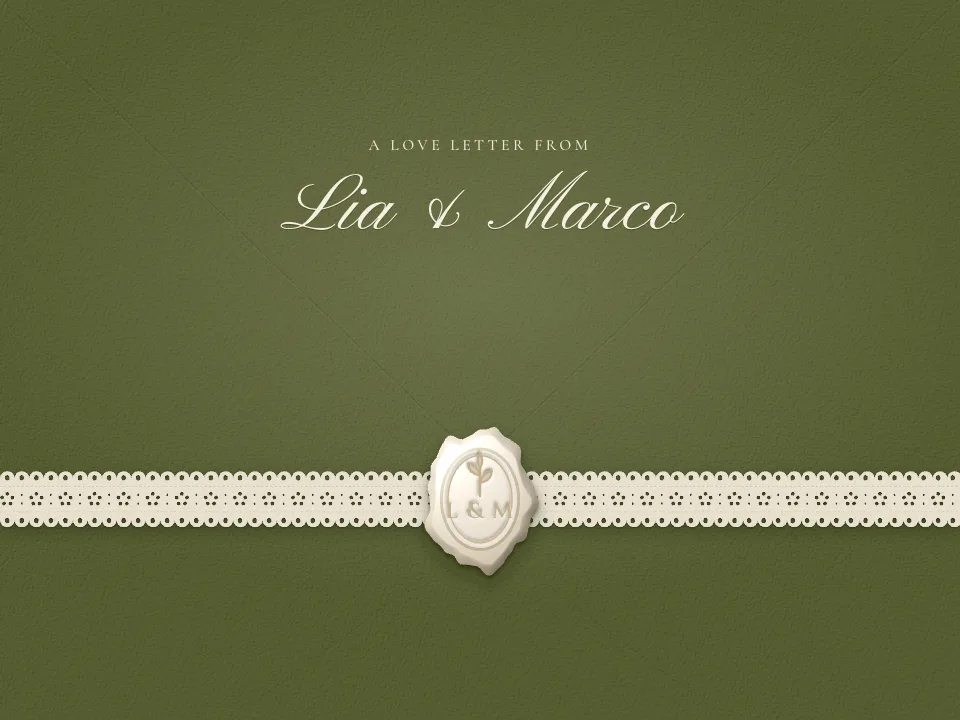
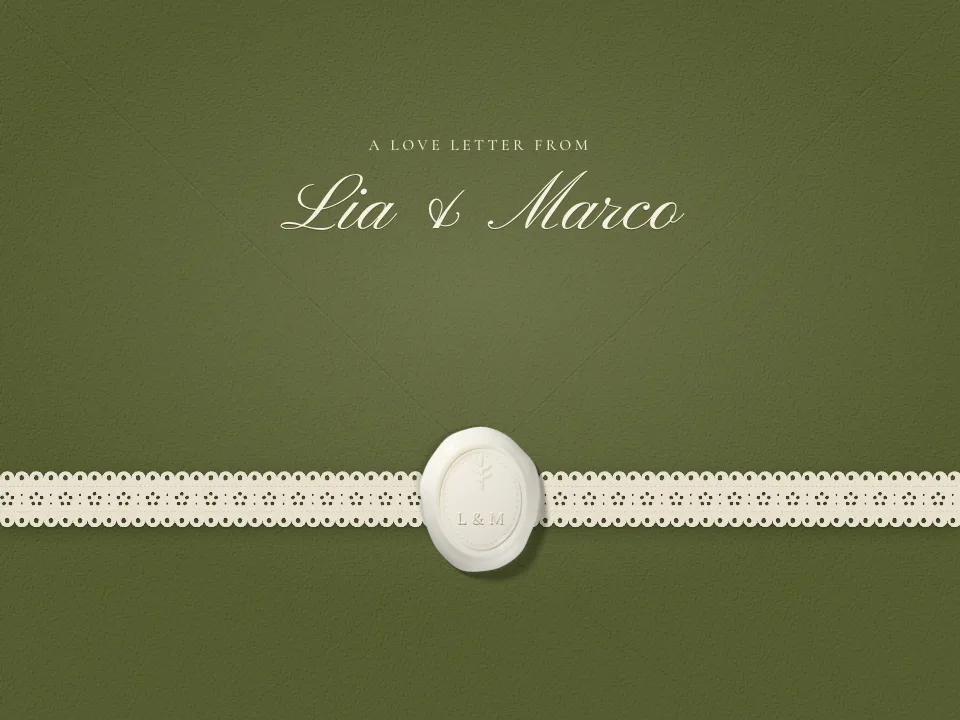
Love Letter: rendered stationery, photo crop that follows the host's adjust, names that always fit
- The envelope, name card, date card, oval mat and wax seal are now Cycles renders
  (public/event-templates/love-letter). The envelope and cards are grey shading maps
  tinted with the palette colour (mask + hard-light), so every palette still works; the
  mat and seal are ivory. Names, date and monogram stay live text.
- The oval photo is a real <img> under the mat, cropped by photoFit: the exact focal point
  and zoom apply, and the on-page Adjust/Replace tools now find it. Before, the SVG <image>
  snapped the focal point to thirds, ignored zoom, and got no tools.
- Name card: a square card with the names centred; long names shrink to fit instead of
  stretching the card under the pocket.
- Dark palettes get light paper with dark type; the date picks its ink by contrast.
- Renders preload while the intro is up; gallery card re-captured with the new seal.

Changed region(s): [[0.4375, 0.5806, 0.5938, 0.7944]]

diff --git a/src/pages/wedding-sites/templates/love-letter/art.tsx b/src/pages/wedding-sites/templates/love-letter/art.tsx
@@ -1,10 +1,16 @@
-import { useId, useRef } from "react";
-import { EnvelopeBack, PAPER_GRAIN, Pocket, WaxSeal, lacePath, useSize } from "../shared/stationery";
+import { useLayoutEffect, useRef, type ReactNode, type Ref } from "react";
+import { photoFit } from "../shared/photoFit";
+import type { ImageAsset } from "../../content/types";
 
-// Love Letter's own pieces (the shared paper, envelope, seal and lace ribbon
-// live in ../shared/stationery): the open envelope holding a photo in an oval
-// mat, a striped name card and a scalloped date card; a leaf sprig ornament;
-// and the countdown.
+// Love Letter's own pieces: the open envelope holding a photo in an oval mat, a
+// striped name card and a scalloped date card, the ivory wax seal; a leaf sprig
+// ornament; and the countdown.
+//
+// The paper pieces and the seal are Cycles renders (~/rsvp-teaser/loveletter:
+// ll_render.py → post.py → /public/event-templates/love-letter). The envelope and
+// cards render in neutral grey (flat paper = 50%) and are tinted here with the
+// palette colour (hard-light), so every palette still works; the mat and the seal
+// are always ivory, so they're full colour. Text (names, date, monogram) stays live.
 
 /** A small olive sprig, used between sections. */
 export function Sprig({ className = "" }: { className?: string }) {
@@ -19,86 +25,119 @@ export function Sprig({ className = "" }: { className?: string }) {
   );
 }
 
-/** A scalloped card (the red date card): the shared lace edge, without holes, with paper grain. */
-function ScallopCard({ text, className = "" }: { text: string; className?: string }) {
+export const ART = "/event-templates/love-letter/";
+/** Every rendered file, seal first (the intro shows it); preloaded while the intro is up. */
+export const ART_FILES = ["seal_sprig", "pocket", "back", "namecard", "datecard", "mat", "seal_plain"].map((f) => `${ART}${f}.webp`);
+
+/**
+ * Keeps the names inside the square card: if they overflow (long names wrap onto more lines,
+ * or one long word is wider than the card), shrink the type (--fit, 0.4–1) until they fit.
+ */
+function useFitText(deps: unknown[]) {
   const ref = useRef<HTMLDivElement>(null);
-  const { w, h } = useSize(ref);
-  const id = useId().replace(/:/g, "");
-  const edge = w && h ? lacePath(w, h, Math.max(5, h * 0.09)).edge : "";
+  useLayoutEffect(() => {
+    const el = ref.current;
+    if (!el) return;
+    // names are centred (their boxes shrink to the text), so measure them against the card's
+    // inner width, not their own box
+    const fits = () => {
+      const cs = getComputedStyle(el);
+      const room = el.clientWidth - parseFloat(cs.paddingLeft) - parseFloat(cs.paddingRight);
+      return (
+        el.scrollHeight <= el.clientHeight + 1 &&
+        [...el.querySelectorAll<HTMLElement>(".ll-namecard__name")].every((n) => n.scrollWidth <= room + 1)
+      );
+    };
+    const run = () => {
+      el.style.setProperty("--fit", "1");
+      if (fits()) return;
+      let lo = 0.4, hi = 1;
+      for (let i = 0; i < 8; i++) {
+        const mid = (lo + hi) / 2;
+        el.style.setProperty("--fit", String(mid));
+        if (fits()) lo = mid;
+        else hi = mid;
+      }
+      el.style.setProperty("--fit", String(lo));
+    };
+    run();
+    // the script face may arrive after the first layout; type in cqw scales with the card, so
+    // only content and font changes need a re-fit
+    let live = true;
+    document.fonts?.ready.then(() => live && run());
+    return () => {
+      live = false;
+    };
+    // eslint-disable-next-line react-hooks/exhaustive-deps
+  }, deps);
+  return ref;
+}
+
+/**
+ * A rendered paper piece in the palette's colour: the render's alpha cuts the shape, its grey
+ * shading (paper grain, bevelled edges, shadows) lights whatever is drawn inside it.
+ */
+function Lit({ map, className = "", children, boxRef }: { map: string; className?: string; children?: ReactNode; boxRef?: Ref<HTMLDivElement> }) {
+  const url = `url("${ART}${map}.webp")`;
   return (
-    <div ref={ref} className={`ll-datecard ${className}`}>
-      {edge ? (
-        <svg className="ll-datecard__sheet" width={w} height={h} viewBox={`0 0 ${w} ${h}`} aria-hidden>
-          <defs>
-            <pattern id={`${id}-g`} width="280" height="280" patternUnits="userSpaceOnUse">
-              <image href={PAPER_GRAIN} width="280" height="280" />
-            </pattern>
-            <radialGradient id={`${id}-l`} cx="30%" cy="25%" r="80%">
-              <stop offset="0" stopColor="#fff" stopOpacity=".18" />
-              <stop offset="1" stopColor="#000" stopOpacity=".15" />
-            </radialGradient>
-          </defs>
-          <path d={edge} fill="var(--ll-accent)" />
-          <path d={edge} fill={`url(#${id}-g)`} style={{ mixBlendMode: "multiply" }} opacity=".7" />
-          <path d={edge} fill={`url(#${id}-l)`} />
-        </svg>
-      ) : null}
-      <span className="ll-datecard__text">{text}</span>
+    <div ref={boxRef} className={`ll-lit ${className}`} style={{ WebkitMaskImage: url, maskImage: url }}>
+      {children}
+      <img className="ll-lit__map" src={`${ART}${map}.webp`} alt="" aria-hidden draggable={false} />
     </div>
   );
 }
 
-/** The photo in an oval mat (or the monogram, when there's no photo). */
-function OvalMat({ photo, mono, focal }: { photo?: string; mono: string; focal?: { x: number; y: number } }) {
-  const id = useId().replace(/:/g, "");
+/** The ivory wax seal (rendered), with the couple's monogram pressed into its open field. */
+export function LLSeal({ text, sprig = false, className = "" }: { text: string; sprig?: boolean; className?: string }) {
+  const n = text.replace(/\s+/g, "").length;
   return (
-    <svg className="ll-oval" viewBox="0 0 140 180" aria-hidden>
-      <defs>
-        <clipPath id={`${id}-c`}>
-          <ellipse cx="70" cy="90" rx="50" ry="68" />
-        </clipPath>
-        <pattern id={`${id}-g`} width="280" height="280" patternUnits="userSpaceOnUse">
-          <image href={PAPER_GRAIN} width="280" height="280" />
-        </pattern>
-        <filter id={`${id}-sh`} x="-20%" y="-20%" width="140%" height="140%">
-          <feDropShadow dx="0" dy="2" stdDeviation="1.5" floodColor="#1d2410" floodOpacity=".45" />
-          <feDropShadow dx="0" dy="10" stdDeviation="9" floodColor="#1d2410" floodOpacity=".3" />
-        </filter>
-      </defs>
-      <g filter={`url(#${id}-sh)`}>
-        <ellipse cx="70" cy="90" rx="68" ry="88" fill="var(--st-paper)" />
-        <ellipse cx="70" cy="90" rx="68" ry="88" fill={`url(#${id}-g)`} style={{ mixBlendMode: "multiply" }} opacity=".8" />
-      </g>
-      <ellipse cx="70" cy="90" rx="60" ry="79" fill="none" stroke="#b9a678" strokeWidth="1" />
-      <ellipse cx="70" cy="90" rx="56.5" ry="75" fill="none" stroke="#b9a678" strokeOpacity=".6" strokeWidth=".6" />
+    <span className={`ll-seal${sprig ? " ll-seal--sprig" : ""} ${className}`} aria-hidden>
+      <img src={`${ART}seal_${sprig ? "sprig" : "plain"}.webp`} alt="" draggable={false} />
+      {text ? (
+        <span className="ll-seal__mono" style={{ fontSize: `${(n <= 2 ? 19 : n <= 3 ? 16 : n <= 4 ? 13 : 10) * (sprig ? 0.74 : 1)}cqw` }}>
+          {text}
+        </span>
+      ) : null}
+    </span>
+  );
+}
+
+/**
+ * The photo in a bevelled oval mat (or the monogram, when there's no photo). The photo is a real
+ * <img> under the mat (not an SVG <image>): it crops at the host's exact focal point and zoom via
+ * photoFit, and the builder's on-page Adjust/Replace tools, which look for <img>, can find it.
+ */
+function OvalMat({ photo, mono }: { photo?: Pick<ImageAsset, "masterUrl" | "focalPoint" | "zoom" | "alt">; mono: string }) {
+  return (
+    <div className="ll-oval">
       {photo ? (
-        <image href={photo} x="20" y="22" width="100" height="136" preserveAspectRatio={`x${focal && focal.x < 0.34 ? "Min" : focal && focal.x > 0.66 ? "Max" : "Mid"}Y${focal && focal.y < 0.34 ? "Min" : focal && focal.y > 0.66 ? "Max" : "Mid"} slice`} clipPath={`url(#${id}-c)`} />
+        <div className="ll-oval__photo">
+          <img src={photo.masterUrl} alt={photo.alt ?? ""} draggable={false} style={photoFit(photo)} />
+        </div>
       ) : (
-        <>
-          <ellipse cx="70" cy="90" rx="50" ry="68" fill="var(--ll-olive)" />
-          <text x="70" y={mono.length > 3 ? 97 : 100} textAnchor="middle" fontFamily="var(--ll-script)" fontSize={mono.length > 3 ? 25 : 36} fill="var(--st-paper)">
-            {mono}
-          </text>
-        </>
+        <div className="ll-oval__photo ll-oval__photo--mono">
+          <span style={{ fontSize: mono.length > 3 ? "17cqw" : "25cqw" }}>{mono}</span>
+        </div>
       )}
-      <ellipse cx="70" cy="90" rx="50" ry="68" fill="none" stroke="#000" strokeOpacity=".18" strokeWidth="1.2" />
-    </svg>
+      <img className="ll-oval__mat" src={`${ART}mat.webp`} alt="" aria-hidden draggable={false} />
+    </div>
   );
 }
 
 /**
  * The open envelope with the invitation pieces tucked inside: the photo in its
  * oval mat (left), the striped name card (back right), the scalloped date card
- * (front), and the pocket with a small ivory seal.
+ * (front left), the pocket, and the wax seal on the pocket's point.
  */
-export function EnvelopeStack({ names, date, mono, photo, focal, editorHint }: { names: string[]; date: string | null; mono: string; photo?: string; focal?: { x: number; y: number }; editorHint?: boolean }) {
+export function EnvelopeStack({ names, date, mono, photo, editorHint }: { names: string[]; date: string | null; mono: string; photo?: ImageAsset; editorHint?: boolean }) {
+  const cardRef = useFitText([names.join("|"), editorHint]);
   return (
     <div className="ll-stack" aria-label={names.join(" & ")}>
       <div className="ll-stack__env ll-stack__env--back">
-        <EnvelopeBack />
+        <Lit map="back" className="ll-env" />
       </div>
       <div className="ll-stack__namecard">
-        <div className="ll-namecard">
+        <Lit map="namecard" className="ll-namecard" boxRef={cardRef}>
           <p className="ll-namecard__kicker">Save the date</p>
           {names.length ? (
             names.map((n, i) => (
@@ -110,21 +149,23 @@ export function EnvelopeStack({ names, date, mono, photo, focal, editorHint }: {
           ) : (
             <span className="ll-namecard__name ll-hint">{editorHint ? "Your names" : ""}</span>
           )}
-        </div>
+        </Lit>
       </div>
       <div className="ll-stack__oval">
-        <OvalMat photo={photo} mono={mono} focal={focal} />
+        <OvalMat photo={photo} mono={mono} />
       </div>
       {date ? (
         <div className="ll-stack__date">
-          <ScallopCard text={date} />
+          <Lit map="datecard" className="ll-datecard">
+            <span className="ll-datecard__text">{date}</span>
+          </Lit>
         </div>
       ) : null}
       <div className="ll-stack__env ll-stack__env--front">
-        <Pocket />
+        <Lit map="pocket" className="ll-env" />
       </div>
       <div className="ll-stack__seal">
-        <WaxSeal text={mono} tone="ivory" shape="oval" />
+        <LLSeal text={mono} />
       </div>
     </div>
   );

diff --git a/src/pages/wedding-sites/templates/love-letter/styles.ts b/src/pages/wedding-sites/templates/love-letter/styles.ts
@@ -48,23 +48,37 @@ export const LOVE_LETTER_CSS = `
 /* the open envelope with the pieces tucked in */
 .ll-stack{position:relative;width:min(100%,470px);aspect-ratio:1/.96;container-type:inline-size;}
 .ll-stack__env{position:absolute;left:4%;right:4%;bottom:2%;height:50%;}
-.ll-stack__env--back{z-index:1;}
-.ll-stack__env--front{z-index:5;}
-.ll-stack__namecard{position:absolute;right:6%;top:3%;width:52%;z-index:2;transform:rotate(3deg);}
-.ll-namecard{position:relative;padding:5cqw 4cqw 14cqw;text-align:center;color:var(--ll-olive);
-  border:2.4cqw solid transparent;background:linear-gradient(var(--st-paper),var(--st-paper)) padding-box,repeating-linear-gradient(90deg,var(--ll-olive) 0 .9cqw,var(--st-paper) .9cqw 1.8cqw) border-box;
-  box-shadow:0 1px 1px rgba(30,35,15,.4),0 12px 22px -8px rgba(30,35,15,.4);}
-.ll-namecard::after{content:"";position:absolute;inset:0;background-image:var(--grain);background-size:280px;mix-blend-mode:multiply;opacity:.6;pointer-events:none;}
-.ll-namecard__kicker{margin:0 0 2.4cqw;font-size:2.4cqw;letter-spacing:.24em;text-transform:uppercase;}
-.ll-namecard__name{display:block;font-family:var(--ll-script);font-size:6.6cqw;line-height:1.15;}
-.ll-namecard__amp{display:block;font-family:var(--ll-script);font-size:5cqw;line-height:1;opacity:.85;}
-.ll-stack__oval{position:absolute;left:7%;top:3%;width:33%;z-index:3;transform:rotate(-7deg);}
-.ll-oval{display:block;width:100%;height:auto;overflow:visible;}
-.ll-stack__date{position:absolute;left:2%;top:41%;width:38%;aspect-ratio:2.3/1;z-index:6;transform:rotate(-6deg);}
-.ll-datecard{position:relative;width:100%;height:100%;display:grid;place-items:center;}
-.ll-datecard__sheet{position:absolute;inset:0;overflow:visible;filter:drop-shadow(0 1px 1px rgba(40,10,10,.45)) drop-shadow(0 8px 12px rgba(40,10,10,.3));}
-.ll-datecard__text{position:relative;font-family:var(--ll-serif);font-size:6.2cqw;letter-spacing:.06em;color:#f7ecdc;text-shadow:0 1px 0 rgba(0,0,0,.25);}
+.ll-stack__env--back{z-index:1;filter:drop-shadow(0 2px 2px rgba(10,0,4,.45)) drop-shadow(0 22px 30px rgba(10,0,4,.4));}
+.ll-stack__env--front{z-index:5;filter:drop-shadow(0 -1px 1.5px rgba(30,20,10,.3)) drop-shadow(0 -6px 12px rgba(30,20,10,.22));}
+/* a rendered piece: its alpha is the shape, its grey shading lights the palette colour (see art.tsx) */
+.ll-lit{position:relative;isolation:isolate;-webkit-mask-size:100% 100%;mask-size:100% 100%;-webkit-mask-repeat:no-repeat;mask-repeat:no-repeat;}
+.ll-lit__map{position:absolute;inset:0;width:100%;height:100%;mix-blend-mode:hard-light;pointer-events:none;user-select:none;-webkit-user-drag:none;}
+.ll-env{position:absolute;inset:0;background:var(--st-env);}
+.ll-stack__namecard{position:absolute;right:6%;top:3%;width:52%;z-index:2;transform:rotate(3deg);filter:drop-shadow(0 1px 1px rgba(30,35,15,.35)) drop-shadow(0 10px 14px rgba(30,35,15,.28));}
+.ll-namecard{aspect-ratio:1;overflow:hidden;display:flex;flex-direction:column;align-items:center;justify-content:center;padding:4cqw;text-align:center;color:var(--ll-card-ink);
+  border:2.4cqw solid transparent;background:linear-gradient(var(--st-paper),var(--st-paper)) padding-box,repeating-linear-gradient(90deg,var(--ll-card-ink) 0 .9cqw,var(--st-paper) .9cqw 1.8cqw) border-box;}
+/* the shading covers the striped border too (the mask is the border box; inset:0 would be the padding box) */
+.ll-namecard>.ll-lit__map{inset:-2.4cqw;width:auto;height:auto;}
+.ll-namecard__kicker{flex:none;margin:0 0 calc(2.4cqw * var(--fit,1));font-size:2.4cqw;letter-spacing:.24em;text-indent:.24em;text-transform:uppercase;}
+.ll-namecard__name{display:block;font-family:var(--ll-script);font-size:calc(6.6cqw * var(--fit,1));line-height:1.15;text-wrap:balance;}
+.ll-namecard__amp{display:block;font-family:var(--ll-script);font-size:calc(5cqw * var(--fit,1));line-height:1;opacity:.85;}
+.ll-stack__oval{position:absolute;left:7%;top:3%;width:33%;z-index:3;transform:rotate(-7deg);filter:drop-shadow(0 1.5px 1.5px rgba(29,36,16,.4)) drop-shadow(0 10px 14px rgba(29,36,16,.28));}
+.ll-oval{position:relative;width:100%;aspect-ratio:140/180;container-type:inline-size;}
+/* the photo sits under the mat: the bevelled window overlaps its edge */
+.ll-oval__photo{position:absolute;left:12.8%;top:11%;width:74.4%;height:78%;border-radius:50%;overflow:hidden;background:var(--ll-card-ink);}
+.ll-oval__photo img{display:block;width:100%;height:100%;object-fit:cover;}
+.ll-oval__photo--mono{display:grid;place-items:center;font-family:var(--ll-script);color:var(--st-paper);}
+.ll-oval__mat{position:absolute;inset:0;width:100%;height:100%;pointer-events:none;user-select:none;-webkit-user-drag:none;}
+.ll-stack__date{position:absolute;left:2%;top:41%;width:38%;aspect-ratio:2.3/1;z-index:6;transform:rotate(-6deg);filter:drop-shadow(0 1px 1px rgba(40,10,10,.4)) drop-shadow(0 8px 12px rgba(40,10,10,.28));}
+.ll-datecard{width:100%;height:100%;display:grid;place-items:center;background:var(--ll-accent);}
+.ll-datecard__text{position:relative;font-family:var(--ll-serif);font-size:6.2cqw;letter-spacing:.06em;color:var(--ll-date-ink,#f7ecdc);text-shadow:0 1px 0 var(--ll-date-shadow,rgba(0,0,0,.25));}
 .ll-stack__seal{position:absolute;left:50%;top:75.8%;width:12%;z-index:6;transform:translate(-50%,-50%);}
+/* the rendered wax seal; the monogram is raised in the wax, lit from the upper left like the render */
+.ll-seal{position:relative;display:block;width:100%;aspect-ratio:100/120;container-type:inline-size;}
+.ll-seal img{display:block;width:100%;height:100%;pointer-events:none;user-select:none;-webkit-user-drag:none;}
+.ll-seal__mono{position:absolute;left:50.5%;top:50.6%;transform:translate(-50%,-50%);white-space:nowrap;font-family:var(--ll-serif);font-weight:600;letter-spacing:.04em;line-height:1;
+  color:#ddd2bb;text-shadow:-.025em -.03em 0 rgba(255,253,246,.95),.03em .045em .03em rgba(95,75,45,.55),0 0 .02em rgba(95,75,45,.3);}
+.ll-seal--sprig .ll-seal__mono{top:61.5%;}
 
 .ll-where{position:relative;z-index:1;padding:26px 20px 10px;text-align:center;}
 .ll-where__place{margin:8px 0 12px;font-size:clamp(40px,9cqw,64px);color:var(--ll-olive);}

diff --git a/src/pages/wedding-sites/templates/love-letter/LoveLetterTemplate.tsx b/src/pages/wedding-sites/templates/love-letter/LoveLetterTemplate.tsx
@@ -8,8 +8,9 @@ import { customValue } from "../../content/custom";
 import VenueLinks from "../shared/VenueLinks";
 import { CashGifts, hasCashGifts } from "../shared/CashGifts";
 import EntourageBlock, { entourageTitle } from "../shared/Entourage";
-import { FELT, LaceRibbon, PAPER_GRAIN, STATIONERY_CSS, WaxSeal } from "../shared/stationery";
-import { EnvelopeStack, Sprig } from "./art";
+import { FELT, LaceRibbon, PAPER_GRAIN, STATIONERY_CSS } from "../shared/stationery";
+import { ART_FILES, EnvelopeStack, LLSeal, Sprig } from "./art";
+import { preload } from "react-dom";
 import { Countdown } from "../shared/Countdown";
 import { coupleNames, eventIsOver, fullNames, longDate, monogram, placeLine, dotDate, timeOf, timeWords } from "./content";
 import RsvpCard from "./RsvpCard";
@@ -33,6 +34,18 @@ import { LOVE_LETTER_CSS } from "./styles";
  */
 
 const OPEN_MS = 1500;
+
+/** Relative luminance (0–1) of a #rgb / #rrggbb colour; anything else counts as mid (0.5). */
+function luminance(c: string): number {
+  const m = /^#([0-9a-f]{3}|[0-9a-f]{6})$/i.exec(c.trim());
+  if (!m) return 0.5;
+  const h = m[1].length === 3 ? [...m[1]].map((x) => x + x).join("") : m[1];
+  const [r, g, b] = [0, 2, 4].map((i) => {
+    const v = parseInt(h.slice(i, i + 2), 16) / 255;
+    return v <= 0.04045 ? v / 12.92 : ((v + 0.055) / 1.055) ** 2.4;
+  });
+  return 0.2126 * r + 0.7152 * g + 0.0722 * b;
+}
 const INSIDE_HASHES = ["#details", "#rsvp"];
 
 function useReveal(on: boolean) {
@@ -75,6 +88,8 @@ export default function LoveLetterTemplate({ content, settings, editorPreview = 
   const live = published || demo;
   const credit = useSiteCredit();
   const theme = resolveEventTheme(settings);
+  // the rendered stationery: fetch it while the intro is up, so nothing pops in when it opens
+  for (const href of ART_FILES) preload(href, { as: "image", fetchPriority: href.endsWith("seal_sprig.webp") ? "high" : "low" });
   const reduced = usePrefersReducedMotion();
   const motion = !reduced;
   const reveal = live && motion;
@@ -136,7 +151,7 @@ export default function LoveLetterTemplate({ content, settings, editorPreview = 
   const venue = content.primaryLocation.name?.trim() ?? "";
   const photos = content.galleries[0]?.items ?? [];
   const cover = settings.heroImage?.masterUrl || photos[0]?.image.masterUrl;
-  const coverFocal = settings.heroImage?.masterUrl ? settings.heroImage.focalPoint : photos[0]?.image.focalPoint;
+  const coverImage = settings.heroImage?.masterUrl ? settings.heroImage : photos[0]?.image;
   const band = photos[1]?.image.masterUrl || cover;
   const paragraphs = (content.story ?? "").split(/\n{2,}/).map((p) => p.trim()).filter(Boolean);
   const schedule = [...content.schedule].sort((a, b) => a.startTime.localeCompare(b.startTime));
@@ -150,13 +165,22 @@ export default function LoveLetterTemplate({ content, settings, editorPreview = 
   const over = !editorPreview && eventIsOver(content.eventDate);
   const vis = settings.sectionVisibility;
 
+  // Dark palettes swap roles (a dark page, light "ink"): the stationery stays light paper with dark
+  // type, so the card's paper and ink come from whichever of the two is light / dark.
+  const bgDark = luminance(theme.background) < 0.3;
+  const darker = luminance(theme.ink) <= luminance(theme.background) ? theme.ink : theme.background;
+  // the date: cream type, or the palette's dark colour when that reads better on the accent
+  const contrast = (a: number, b: number) => (Math.max(a, b) + 0.05) / (Math.min(a, b) + 0.05);
+  const accentLight = contrast(luminance(theme.muted), luminance(darker)) > contrast(luminance(theme.muted), luminance("#f7ecdc"));
   const vars = {
     ["--ll-olive" as string]: theme.ink,
     ["--ll-accent" as string]: theme.muted,
     ["--ll-cream" as string]: theme.background,
     ["--ll-script" as string]: theme.displayFont,
     ["--ll-serif" as string]: theme.bodyFont,
-    ["--st-paper" as string]: `color-mix(in srgb, ${theme.background} 50%, #fff)`,
+    ["--st-paper" as string]: bgDark ? `color-mix(in srgb, ${theme.ink} 45%, #fff)` : `color-mix(in srgb, ${theme.background} 50%, #fff)`,
+    ["--ll-card-ink" as string]: bgDark ? theme.background : theme.ink,
+    ...(accentLight ? { ["--ll-date-ink" as string]: darker, ["--ll-date-shadow" as string]: "rgba(255,255,255,.35)" } : {}),
     ["--st-env" as string]: theme.ink,
     ["--st-ink" as string]: theme.ink,
     ["--st-lace" as string]: "#eee6d4",
@@ -190,7 +214,7 @@ export default function LoveLetterTemplate({ content, settings, editorPreview = 
               <LaceRibbon height={64} />
             </div>
             <button type="button" className="ll-intro__seal" onClick={open} aria-label="Open the invitation">
-              <WaxSeal text={mono} tone="ivory" shape="oval" sprig />
+              <LLSeal text={mono} sprig />
             </button>
           </div>
 
@@ -212,7 +236,7 @@ export default function LoveLetterTemplate({ content, settings, editorPreview = 
           </div>
 
           <div className="ll-hero">
-            <EnvelopeStack names={names} date={dotDate(content.eventDate)} mono={mono} photo={cover} focal={coverFocal} editorHint={editorPreview} />
+            <EnvelopeStack names={names} date={dotDate(content.eventDate)} mono={mono} photo={coverImage} editorHint={editorPreview} />
           </div>
 
           <div className="ll-where">
@@ -341,7 +365,7 @@ export default function LoveLetterTemplate({ content, settings, editorPreview = 
           <div className="ll-band" style={band ? ({ ["--band" as string]: `url("${band}")` } as CSSProperties) : ({ ["--felt" as string]: `url("${FELT}")` } as CSSProperties)}>
             <div className={`ll-band__bg${band ? "" : " ll-band__bg--felt"}`} aria-hidden />
             <div className="ll-band__seal">
-              <WaxSeal text={mono} tone="ivory" shape="oval" sprig />
+              <LLSeal text={mono} sprig />
             </div>
             {credit.show ? (
               <p className="ll-band__credit">

diff --git a/src/pages/wedding-sites/templates/love-letter/index.tsx b/src/pages/wedding-sites/templates/love-letter/index.tsx
@@ -22,7 +22,7 @@ export const loveLetterTemplateDefinition: TemplateDefinition<BaseTemplateSettin
   label: "Love Letter",
   keywords: ["envelope", "letter", "lace", "romantic", "monogram"],
   archetype: "formal-stationery",
-  previewThumbnailUrl: "/event-templates/love-letter/thumbnail.jpg",
+  previewThumbnailUrl: "/event-templates/cards/love-letter.webp",
   cardImage: "/event-templates/cards/love-letter.webp",
   component: LoveLetterTemplate,
   defaultSettings,
